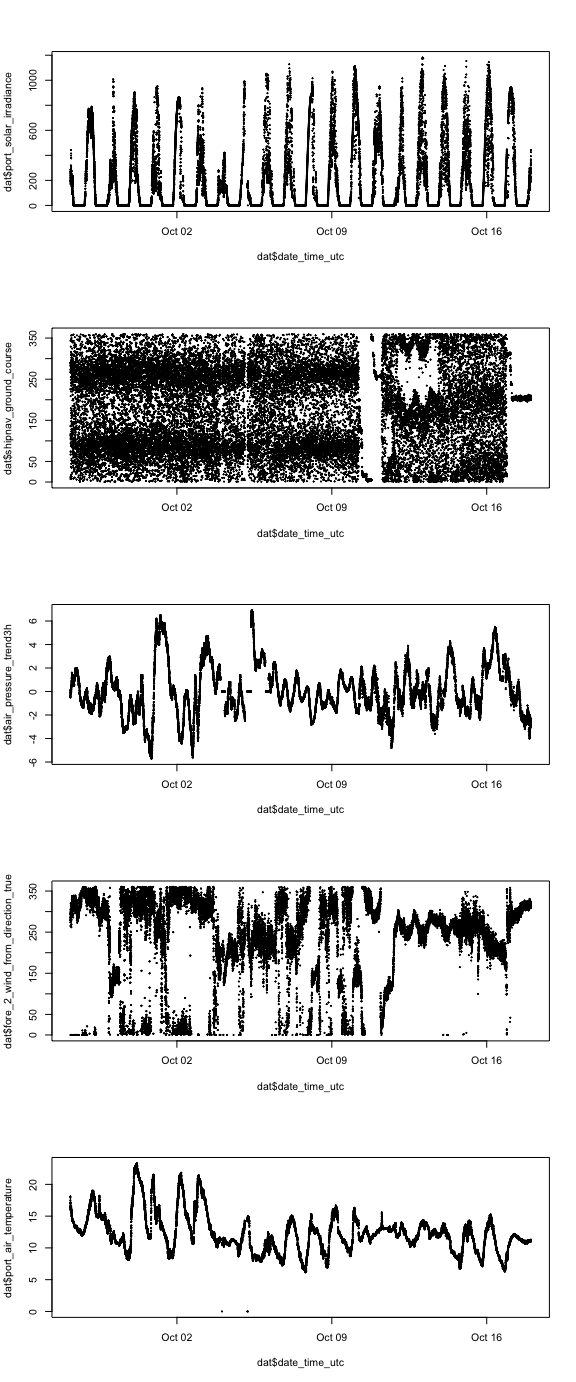
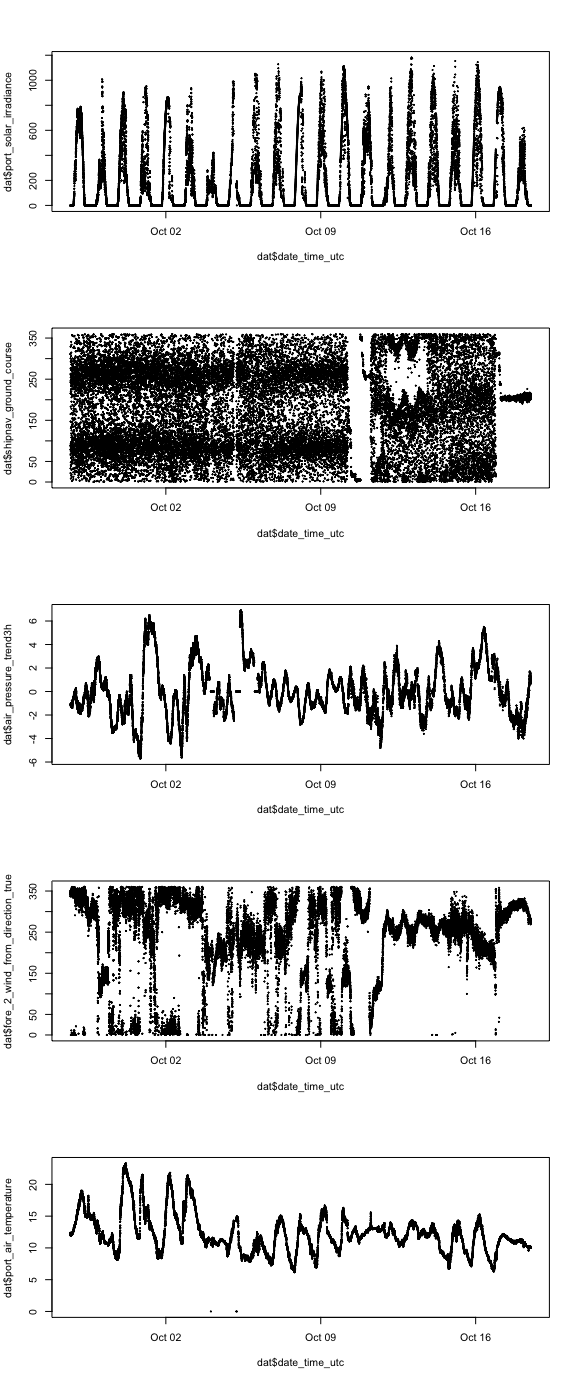
refreshing data

diff --git a/README.md b/README.md
@@ -32,7 +32,7 @@ dat <- arrow::read_parquet("data-raw/nuyina_underway.parquet")
 
 
 print(range( dat$date_time_utc))
-#> [1] "2021/12/23 05:00:00+00" "2023/10/17 23:59:00+00"
+#> [1] "2021/12/23 05:00:00+00" "2023/10/18 11:59:00+00"
 dat <- tibble::as_tibble(dat)
 dat <- tail(dat, n)
 dat$date_time_utc <- as.POSIXct(dat$date_time_utc, "%Y/%m/%d %H:%M:%S", tz = "UTC")
